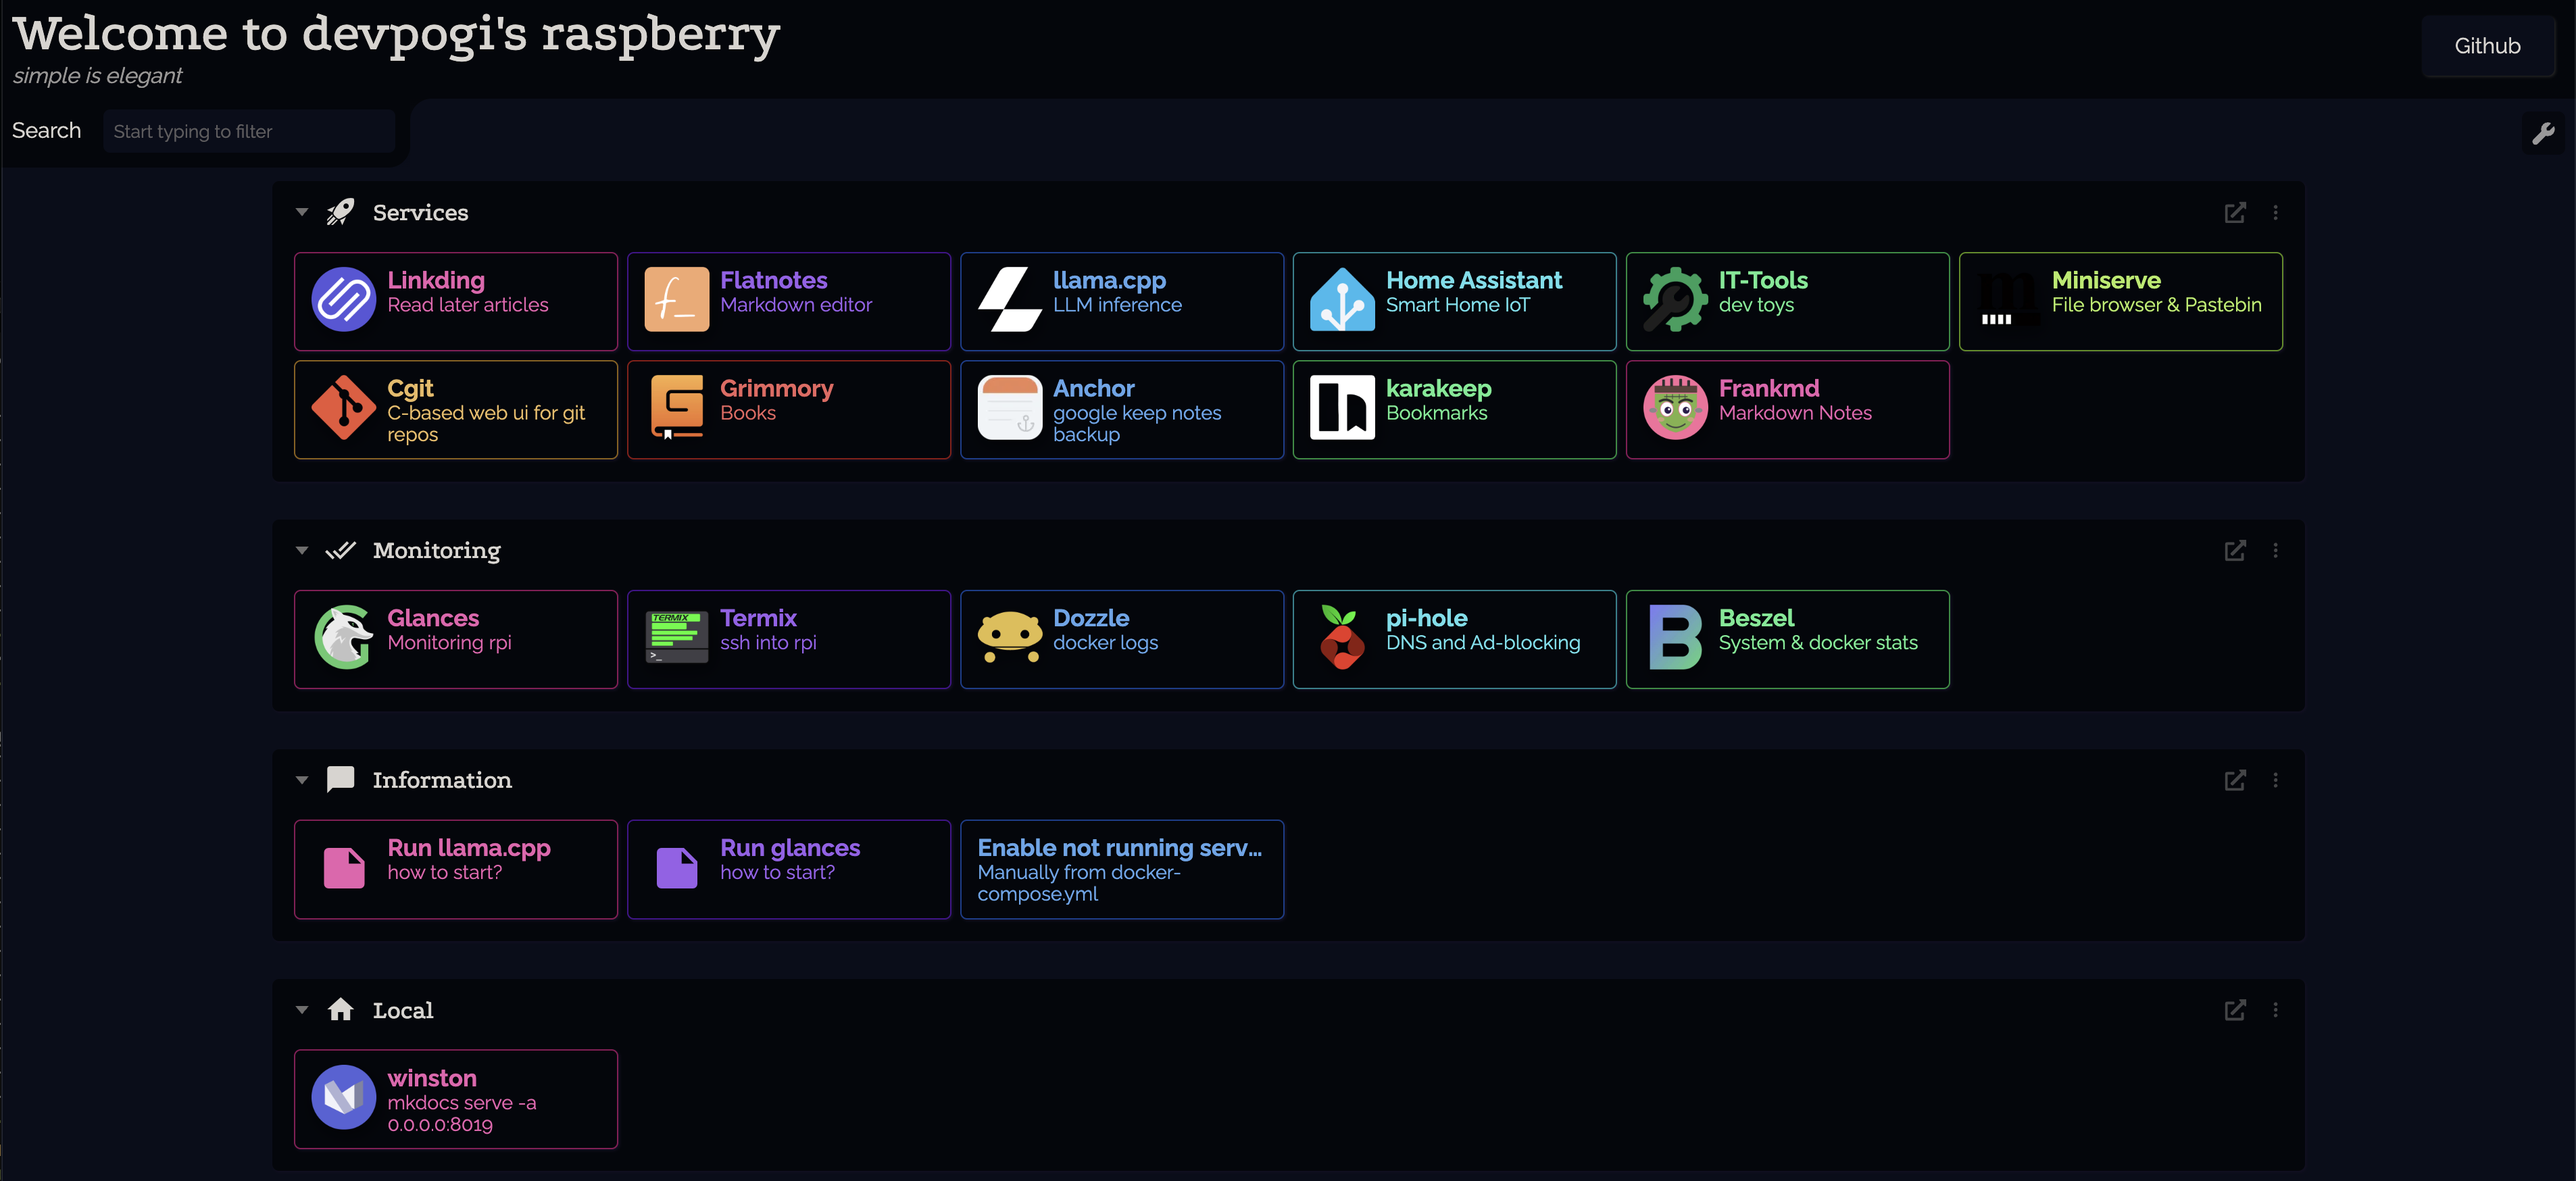
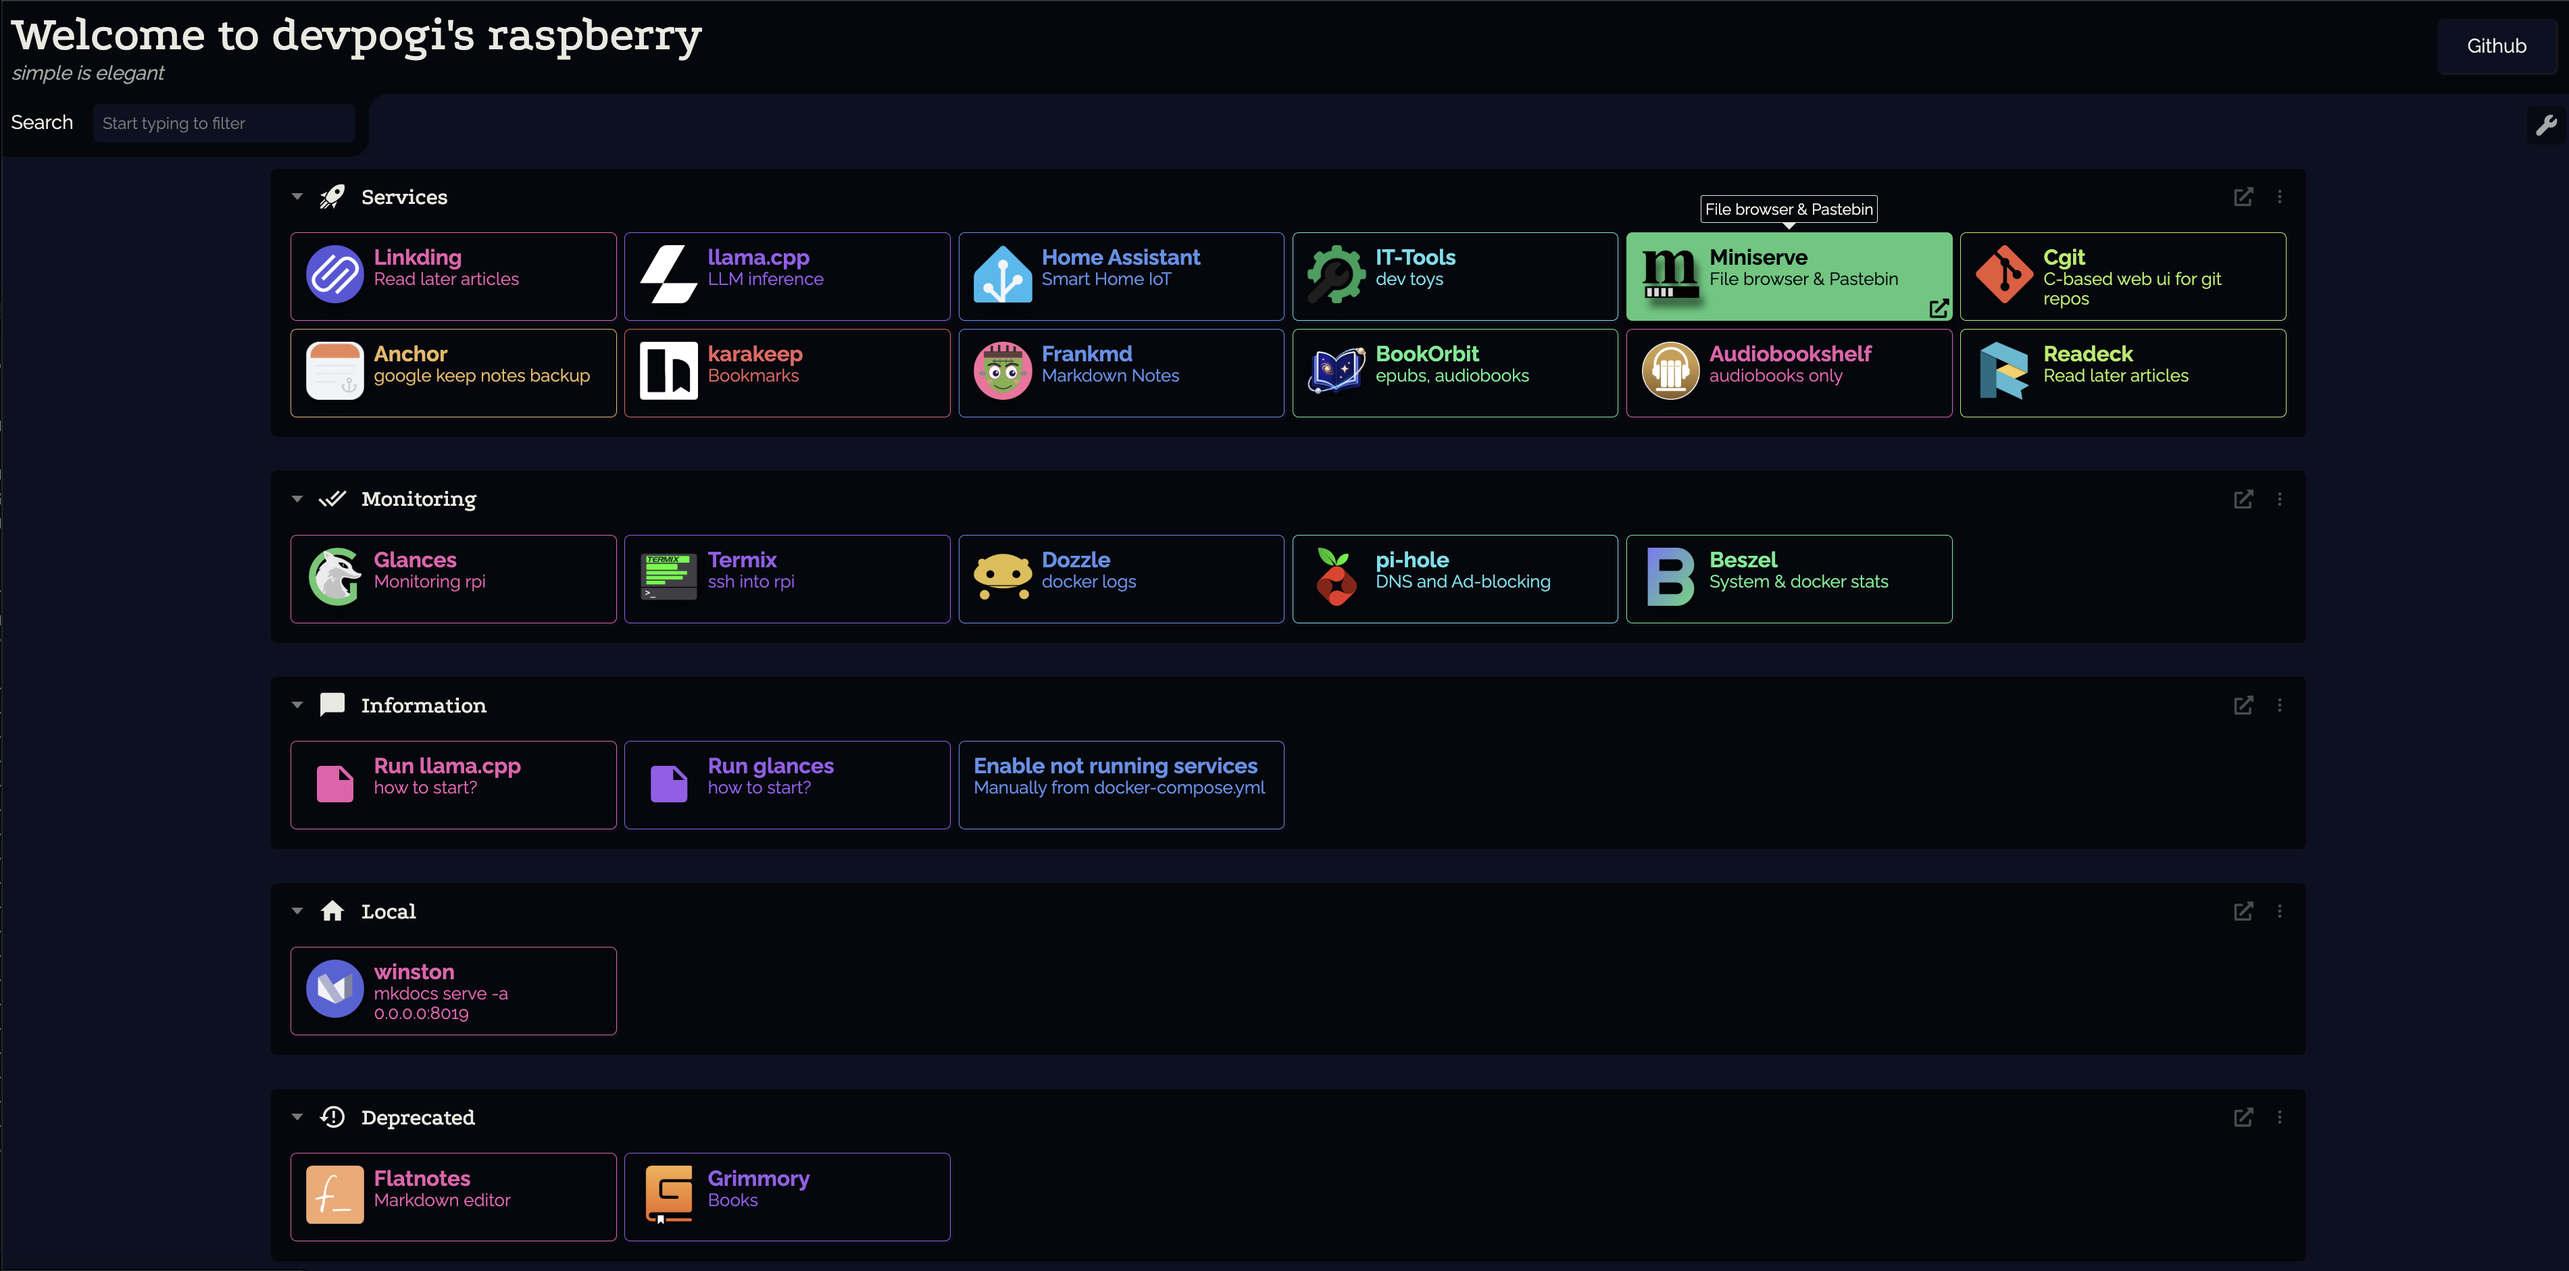
add readeck for save for later articles

diff --git a/README.md b/README.md
@@ -41,8 +41,13 @@ Simple HTTP based file browser and pastebin using [Miniserve](https://github.com
 Git web interface viewer using [cgit](https://github.com/joseluisq/alpine-cgit):  
 ![alpine-cgit](./attachments/alpine_cgit.png)
 
-E-books management using [Grimmory](https://github.com/grimmory-tools/grimmory). I use it together with Android app [readest](https://github.com/readest/readest):  
-![grimmory](./attachments/grimmory.png)
+E-books management using [bookorbit](https://github.com/bookorbit/bookorbit). I use it together with Android app [readest](https://github.com/readest/readest):  
+> Previously used: [Grimmory](https://github.com/grimmory-tools/grimmory)  
+
+![bookorbit](./attachments/bookorbit.png)
+
+Audiobook management using [audiobookshelf](https://github.com/advplyr/audiobookshelf). I use it together with its android apps [audiobookshelf android official app](https://github.com/advplyr/audiobookshelf-app) and [readest](https://github.com/readest/readest):  
+![audiobookshelf](./attachments/audiobookshelf.png)
 
 RPI and docker:  
 ![fastfetch](./attachments/fastfetch_docker_images.png)  
@@ -58,6 +63,11 @@ DNS and Ad blocking using [pi-hole](https://github.com/pi-hole/docker-pi-hole) w
 
 Links bookmarks using [Karakeep](https://github.com/karakeep-app/karakeep/). I use it together with [karakeep android app](https://play.google.com/store/apps/details?id=app.hoarder.hoardermobile&pcampaignid=web_share) and [karakeep chrome extension](https://chromewebstore.google.com/detail/karakeep/kgcjekpmcjjogibpjebkhaanilehneje):  
 ![karakeep](./attachments/karakeep.png)
+
+Trying to move away from karakeep using another "Save for Later Reading" app [readeck](https://codeberg.org/readeck/readeck) which is lighter, unclutter, not many features (yet basic and necessary ones present).  
+I use it together with its unofficial android app [Readeck App](https://github.com/jensomato/ReadeckApp) because the official android app can't authenticate with my self hosted instance.  
+I use it also with [official chrome extention](https://chromewebstore.google.com/detail/readeck/jnmcpmfimecibicbojhopfkcbmkafhee).    
+![readeck](./attachments/readeck.png)  
 
 Docker stats and system stats using [Beszel](https://github.com/henrygd/beszel):  
 ![beszel](./attachments/beszel.png)
